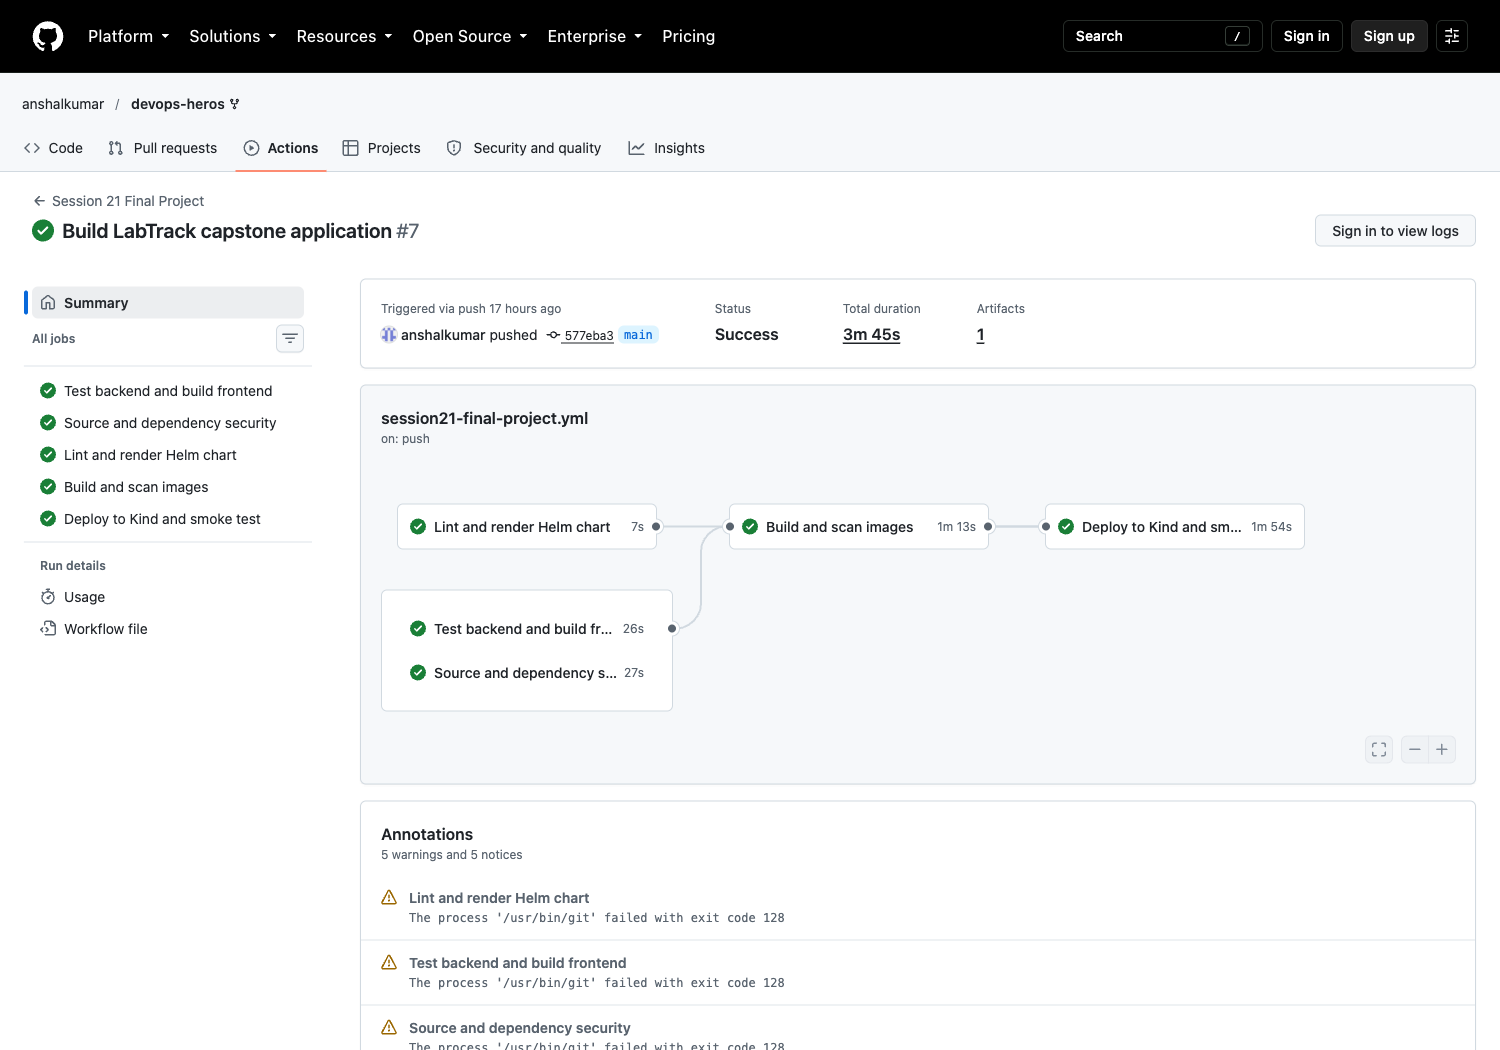
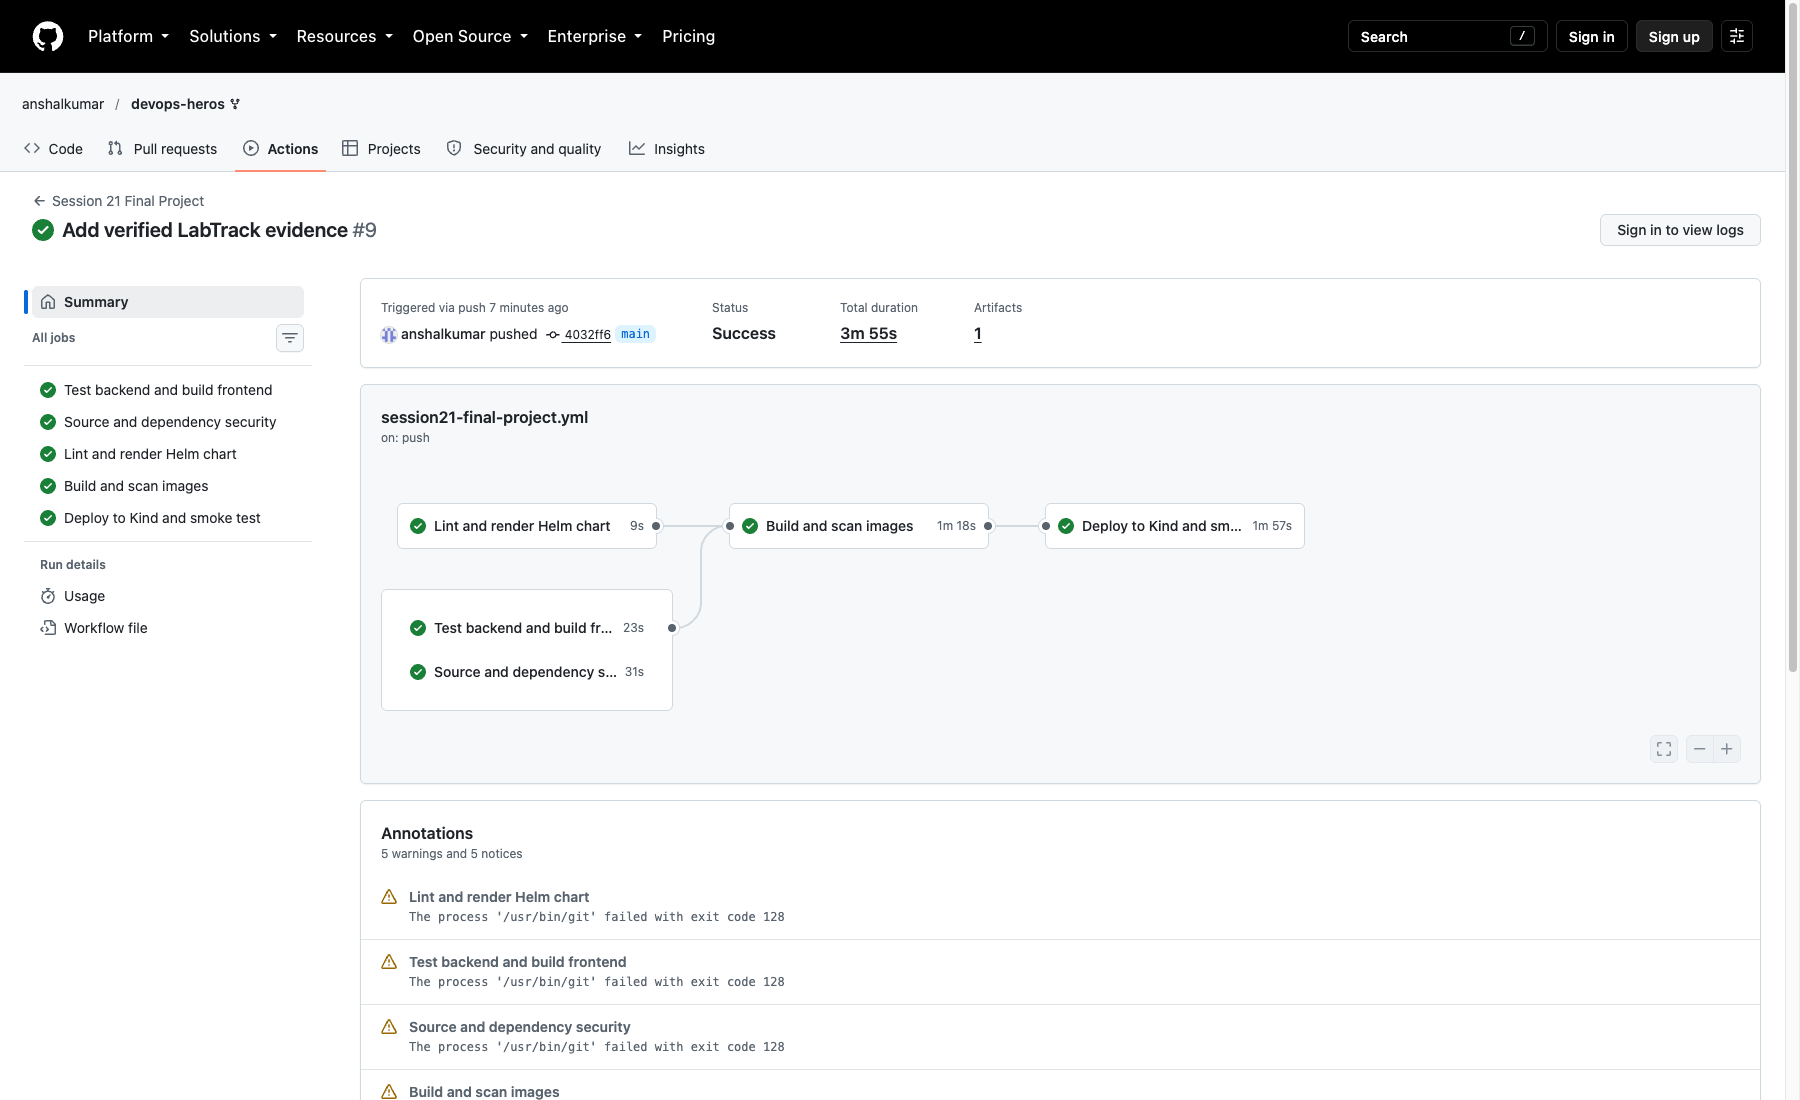
Update successful CI evidence

diff --git a/session21-final-devops-project/README.md b/session21-final-devops-project/README.md
@@ -114,7 +114,7 @@ The Session 21 workflow:
 
 The workflow file is [.github/workflows/session21-final-project.yml](../.github/workflows/session21-final-project.yml).
 
-The completed run is available in [GitHub Actions](https://github.com/anshalkumar/devops-heros/actions/runs/38040068266). All five jobs passed, including the image scan and the temporary Kind deployment.
+The completed run is available in [GitHub Actions](https://github.com/anshalkumar/devops-heros/actions/runs/38128067178). All five jobs passed, including the image scan and the temporary Kind deployment.
 
 ![Session 21 GitHub Actions workflow](evidence/labtrack-github-actions.png)
 
@@ -126,7 +126,7 @@ Trivy is configured with severity HIGH,CRITICAL, ignore-unfixed enabled, and exi
 
 ![Trivy scans for both images](evidence/labtrack-trivy-scans.png)
 
-The successful [Build and scan images job](https://github.com/anshalkumar/devops-heros/actions/runs/38040068266/job/114178452760) shows both Trivy steps and the GHCR push.
+The successful [Build and scan images job](https://github.com/anshalkumar/devops-heros/actions/runs/38128067178/job/114436568375) shows both Trivy steps and the GHCR push.
 
 ## 5. Kubernetes and Helm
 
